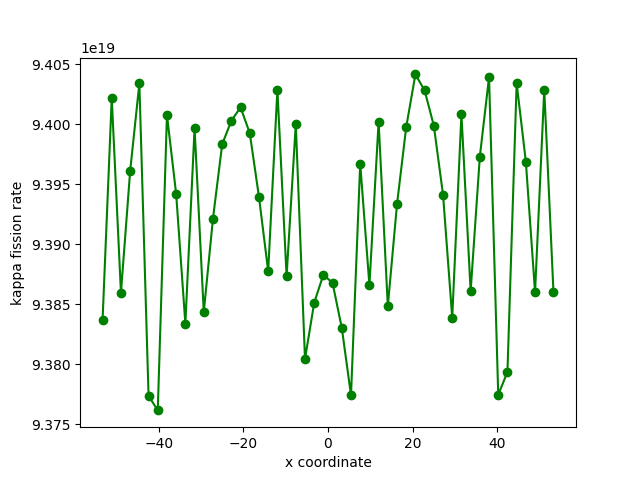
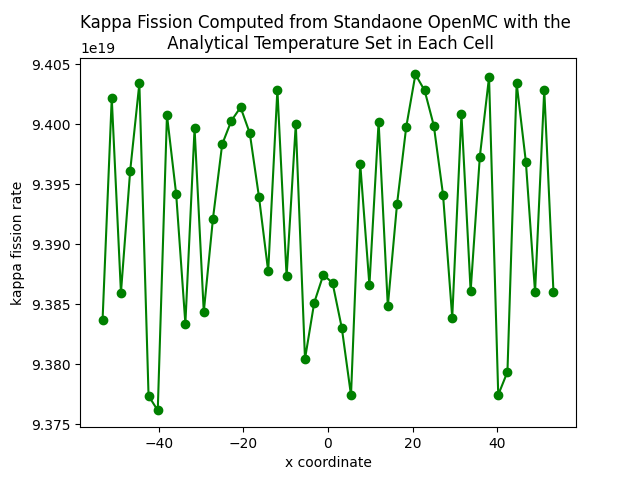
added comments, fixed title in kf plot, added C/E for flux in standalone case

Changed region(s): [[0.125, 0.0312, 0.9062, 0.125]]

diff --git a/test_analytic_temp/visualize_results.py b/test_analytic_temp/visualize_results.py
@@ -4,19 +4,32 @@ import matplotlib.pyplot as plt
 P = 1e22
 L = 106.47
 N = 50
+phi0 = 2.5e14 # n/cm^2-s
+q = 1e8 # ev/s
+lam = 0.5*(1+np.sqrt(1+(16*q*q*phi0*phi0)/(P*P)))
+
+#open statepoint
 sp = openmc.StatePoint('statepoint.150.h5')
+
+# obtain raw tallies (need source strength normalization)
 raw_flux_mesh_tally = sp.get_tally(id=1).get_slice(scores=['flux'])
 raw_kappa_fission_tally = sp.get_tally(id=1).get_slice(scores=['kappa-fission'])
+
+# compute source strength
 nu_fission_rate = float(sp.get_tally(id=2).get_slice(scores=['nu-fission']).mean[0])
 fission_rate = float(sp.get_tally(id=2).get_slice(scores=['fission']).mean[0])
 eig = sp.keff.n
 power = sp.get_tally(id=2).get_slice(scores=['kappa-fission']).mean[0]
 voxel_volume = L/N
 source_strength = P*nu_fission_rate/(eig*voxel_volume*float(power))
+
+# convert units for flux and kappa-fissiont allies, reshape to be 1D arrays
 flux = raw_flux_mesh_tally * source_strength
 kf = raw_kappa_fission_tally * source_strength
 flux.mean.shape = (N)
 kf.mean.shape = (N)
+
+# plot
 xx = np.linspace(-L/2,L/2,N)
 plt.plot(xx,flux.mean,'-bo')
 plt.xlabel("x coordinate")
@@ -28,5 +41,18 @@ plt.clf()
 plt.plot(xx,kf.mean,'-go')
 plt.xlabel("x coordinate")
 plt.ylabel("kappa fission rate")
+plt.title("Kappa Fission Computed from Standaone OpenMC with the \n Analytical Temperature Set in Each Cell")
 plt.savefig("kappa_fission_temp_analytical.png")
+plt.clf()
+
+num_to_analy = []
+# flux numerical to analytical ratio
+phi = phi0*np.sqrt(1- ((lam - 1)*P*P*np.multiply(xx,xx))/(L*L*q*q*phi0*phi0))
+for i in range(N):
+    num_to_analy.append(float(flux.mean[i])/phi[i])
+plt.plot(xx,num_to_analy,'-co',)
+plt.xlabel('X coordniate')
+plt.ylabel('numerical to analytical ratio $\phi(x)$')
+plt.title('Ratio Numerical to Analytical Flux from Standaone OpenMC with the \n Analytical Temperature Set in Each Cell')
+plt.savefig('temp_analytical_num_flux_to_analytical_ratio.png')
 plt.clf()
